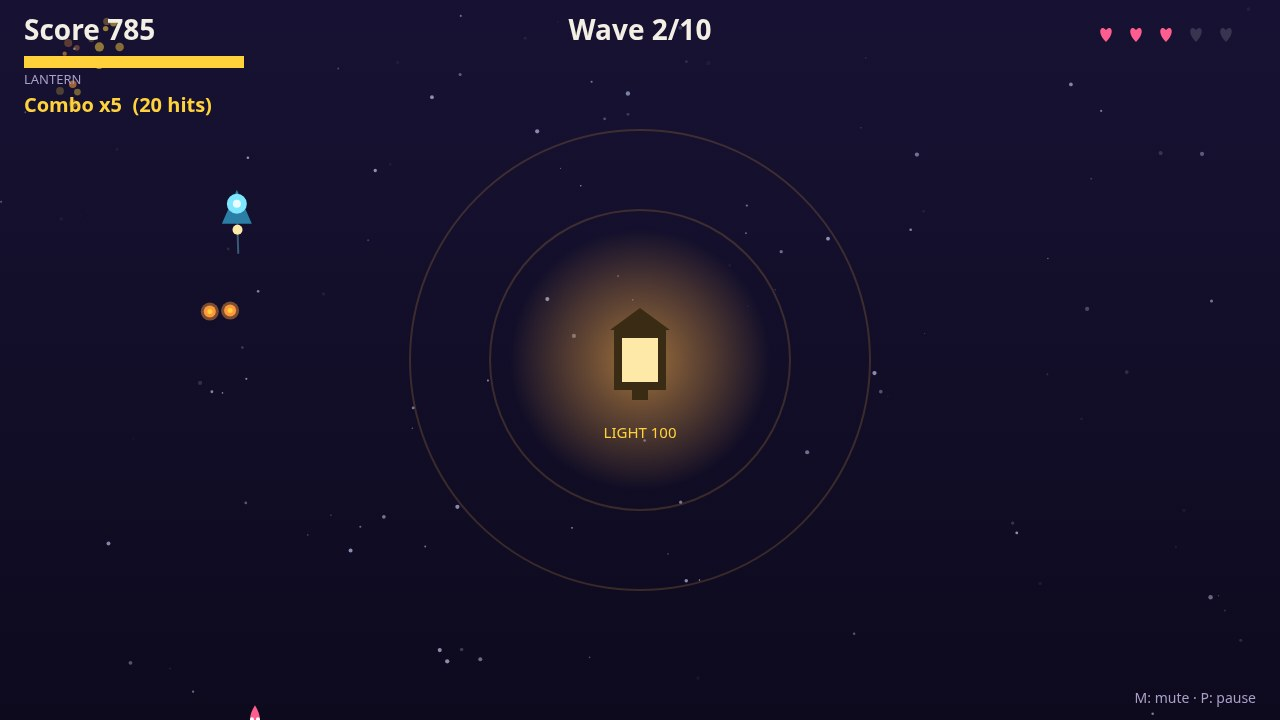
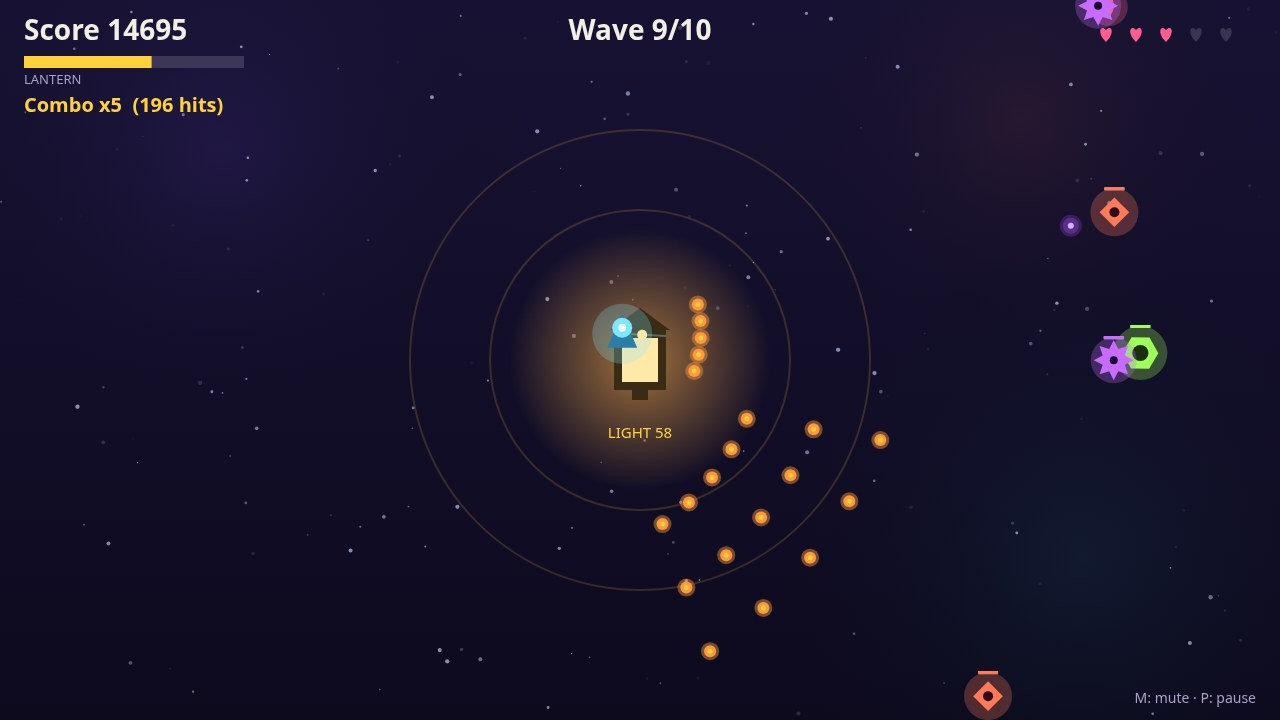
Emberfall: busier waves, fairer fight, screenshots that show it
- Denser, earlier-variety waves (7+3n, faster spawns, splitters/spitters
  from waves 3/2) and a stronger keeper (faster fire/move, 4 hearts,
  lighter lantern damage) so the field stays full but the game stays
  winnable: autopilot wins 3/5 seeds, all close.
- Richer look: nebulae, 170 stars, glow halos on shades and keeper,
  bigger lantern glow; end screens no longer show frozen embers/orbs.
- Play screenshot now stages the liveliest real frame of up to 120s of
  play (wave 9, score 14695) instead of a fixed quiet second; all four
  screenshots re-taken from the game's own code, 1280x720, under 256 KiB.
- Dossier builds byte-identical across two runs.

diff --git a/game/src/render.js b/game/src/render.js
@@ -25,7 +25,7 @@ function starfield(random, count) {
 export function createRenderer(canvas, random) {
   const context = canvas.getContext('2d');
   const view = { scale: 1, x: 0, y: 0 };
-  const stars = starfield(random, 110);
+  const stars = starfield(random, 170);
   const fonts = new Map();
   let time = 0;
 
@@ -80,6 +80,22 @@ export function createRenderer(canvas, random) {
     grad.addColorStop(1, PALETTE.skyBottom);
     context.fillStyle = grad;
     context.fillRect(0, 0, FIELD.width, FIELD.height);
+    // Nebulae: a few huge, faint colour clouds so the dark never reads as
+    // an empty void, even where no shade is standing.
+    const nebulae = [
+      { x: 220, y: 150, r: 320, color: 'rgba(88,60,180,0.16)' },
+      { x: 1080, y: 560, r: 340, color: 'rgba(28,120,130,0.13)' },
+      { x: 1020, y: 120, r: 260, color: 'rgba(180,90,60,0.10)' },
+    ];
+    for (const n of nebulae) {
+      const g = context.createRadialGradient(n.x, n.y, 0, n.x, n.y, n.r);
+      g.addColorStop(0, n.color);
+      g.addColorStop(1, 'rgba(0,0,0,0)');
+      context.fillStyle = g;
+      context.beginPath();
+      context.arc(n.x, n.y, n.r, 0, Math.PI * 2);
+      context.fill();
+    }
     for (const s of stars) {
       const alpha = 0.35 + 0.3 * Math.sin(time * 1.5 + s.tw);
       context.globalAlpha = alpha;
@@ -99,7 +115,7 @@ export function createRenderer(canvas, random) {
 
   function drawLantern(state) {
     const pulse = 1 + 0.06 * Math.sin(time * 2);
-    const glowR = 130 * pulse * (0.5 + state.lantern / 200);
+    const glowR = 165 * pulse * (0.5 + state.lantern / 200);
     const glow = context.createRadialGradient(LANTERN.x, LANTERN.y, 10, LANTERN.x, LANTERN.y, glowR);
     glow.addColorStop(0, 'rgba(255,179,71,0.55)');
     glow.addColorStop(1, 'rgba(255,179,71,0)');
@@ -127,6 +143,10 @@ export function createRenderer(canvas, random) {
   function drawPlayer(state) {
     const p = state.player;
     if (p.invulnerable > 0 && Math.floor(p.invulnerable * 10) % 2 === 0) return;
+    // The keeper's own halo, so the player never gets lost in the dark.
+    context.globalAlpha = 0.25;
+    circle(p.x, p.y, 30, PALETTE.player);
+    context.globalAlpha = 1;
     // Aim line, faint.
     context.strokeStyle = 'rgba(126,231,255,0.35)';
     context.lineWidth = 2;
@@ -154,6 +174,11 @@ export function createRenderer(canvas, random) {
       circle(e.x, e.y, e.radius + 3, '#ffffff');
       return;
     }
+    // Halo: every shade carries its own glow, so it reads at a glance even
+    // shrunk to a contact-sheet cell.
+    context.globalAlpha = 0.28;
+    circle(e.x, e.y, e.radius + 9, color);
+    context.globalAlpha = 1;
     if (e.kind === 'mote') {
       // Spiky shade: a circle with eight spikes.
       context.fillStyle = color;
@@ -224,20 +249,26 @@ export function createRenderer(canvas, random) {
     }
   }
 
-  function drawField(state) {
+  function drawField(state, screen) {
     drawBackground(state);
     drawLantern(state);
-    for (const o of state.orbs) {
-      if (!o.active) continue;
-      circle(o.x, o.y, o.radius + 3, 'rgba(91,45,142,0.5)');
-      circle(o.x, o.y, o.radius, PALETTE.orb);
-      circle(o.x, o.y, 3, '#d9b3ff');
-    }
-    for (const b of state.bullets) {
-      if (!b.active) continue;
-      circle(b.x, b.y, b.radius + 3, 'rgba(255,154,60,0.45)');
-      circle(b.x, b.y, b.radius, PALETTE.ember);
-      circle(b.x, b.y, 2.5, PALETTE.emberCore);
+    // On an end screen the field is over: embers and orbs left frozen
+    // mid-flight would read as a glitch behind the panel, so they are not
+    // drawn there. Everything else (shades, lantern, keeper) stays.
+    const ended = screen === SCREEN_WIN || screen === SCREEN_OVER;
+    if (!ended) {
+      for (const o of state.orbs) {
+        if (!o.active) continue;
+        circle(o.x, o.y, o.radius + 3, 'rgba(91,45,142,0.5)');
+        circle(o.x, o.y, o.radius, PALETTE.orb);
+        circle(o.x, o.y, 3, '#d9b3ff');
+      }
+      for (const b of state.bullets) {
+        if (!b.active) continue;
+        circle(b.x, b.y, b.radius + 3, 'rgba(255,154,60,0.45)');
+        circle(b.x, b.y, b.radius, PALETTE.ember);
+        circle(b.x, b.y, 2.5, PALETTE.emberCore);
+      }
     }
     for (const e of state.enemies) if (e.active) drawEnemy(e);
     drawPlayer(state);
@@ -327,7 +358,7 @@ export function createRenderer(canvas, random) {
     context.fillStyle = PALETTE.backdrop;
     context.fillRect(0, 0, canvas.width, canvas.height);
     context.setTransform(view.scale, 0, 0, view.scale, view.x, view.y);
-    drawField(state);
+    drawField(state, screen);
     if (screen === SCREEN_TITLE) {
       drawPanel('EMBERFALL', [
         'The last lantern is fading. Shades crawl out of the dark',

diff --git a/game/src/shots.js b/game/src/shots.js
@@ -10,8 +10,40 @@ import { FIELD, LANTERN, PLAYER, STEP } from './config.js';
 import { SCREEN_OVER, SCREEN_PLAY, SCREEN_TITLE, SCREEN_UPGRADE, SCREEN_WIN } from './render.js';
 
 const START_SECONDS = 6;
-const PLAY_SECONDS = 20;
+const PLAY_SECONDS = 120;
 const STEP_CAP = 60 * 60 * 9; // nine minutes of simulated play, at most
+
+/** How lively a frame is: shades alive count most, then embers and orbs,
+ *  then the wave, so the shot favours a late, crowded fight. */
+function frameScore(state) {
+  let score = state.wave;
+  let bullets = 0;
+  for (const e of state.enemies) if (e.active) score += 4;
+  for (const b of state.bullets) if (b.active) bullets += 1;
+  for (const o of state.orbs) if (o.active) score += 2;
+  // Embers in flight help, but a spray of them must never outrank a field
+  // full of shades: their share is capped.
+  score += Math.min(bullets, 8);
+  return score;
+}
+
+/** Put a remembered frame back into the world, in place, so the renderer
+ *  paints exactly the frame the simulation reached. The state holds plain
+ *  data only (the upgrade list is empty outside a choice), so a structured
+ *  clone round-trips it. */
+function restoreFrame(state, frame) {
+  for (const key of Object.keys(frame)) {
+    const value = frame[key];
+    if (Array.isArray(value)) {
+      state[key].length = 0;
+      for (const item of value) state[key].push(item);
+    } else if (value !== null && typeof value === 'object') {
+      Object.assign(state[key], value);
+    } else {
+      state[key] = value;
+    }
+  }
+}
 
 /** The shade closest to the lantern: the one that must die first. */
 function nearestToLantern(state) {
@@ -109,7 +141,25 @@ export function stageShot(name, world) {
     return { screen: SCREEN_TITLE, best: 0 };
   }
   if (name === 'play') {
-    playSteps(world, PLAY_SECONDS / STEP);
+    // Play up to a minute of the real game, remember the liveliest frame,
+    // and paint that one: a fixed second used to land on an empty field
+    // between waves, and the judge reads this shot at a glance.
+    let bestFrame = null;
+    let bestScore = -1;
+    for (let i = 0; i < PLAY_SECONDS / STEP; i += 1) {
+      const state = world.state;
+      if (state.over || state.won) break;
+      if (state.awaitingChoice) autopilotUpgrade(world);
+      world.step(STEP, autopilotSteer(state), true, autopilotAim(state));
+      const after = world.state;
+      if (after.over || after.won || after.awaitingChoice) continue;
+      const score = frameScore(after);
+      if (score > bestScore) {
+        bestScore = score;
+        bestFrame = structuredClone(after);
+      }
+    }
+    if (bestFrame !== null) restoreFrame(world.state, bestFrame);
     return { screen: world.state.over ? SCREEN_OVER : SCREEN_PLAY, best: world.state.score };
   }
   if (name === 'upgrade') {

diff --git a/game/src/config.js b/game/src/config.js
@@ -12,11 +12,11 @@ export const LANTERN = { x: 640, y: 360, radius: 46, maxLight: 100 };
 
 export const PLAYER = {
   radius: 16,
-  speed: 330,
+  speed: 360,
   maxHearts: 5,
-  startHearts: 3,
+  startHearts: 4,
   invulnerable: 1.2,
-  fireInterval: 0.22,
+  fireInterval: 0.16,
   bulletSpeed: 740,
   bulletDamage: 1,
   bulletRadius: 6,
@@ -27,25 +27,27 @@ export const WAVES = { total: 10, betweenSeconds: 0 };
 /** Enemy kinds. Wisps hunt the lantern; motes and splitters hunt the keeper;
  *  spitters keep their distance and shoot dark orbs; the Herald is wave 10. */
 export const ENEMY = {
-  mote:     { hp: 2,  speed: 78,  radius: 14, score: 10,  lanternDamage: 6,  touch: 1 },
-  wisp:     { hp: 1,  speed: 122, radius: 10, score: 15,  lanternDamage: 5,  touch: 1 },
-  splitter: { hp: 4,  speed: 62,  radius: 18, score: 20,  lanternDamage: 8, touch: 1 },
+  mote:     { hp: 2,  speed: 86,  radius: 14, score: 10,  lanternDamage: 5,  touch: 1 },
+  wisp:     { hp: 1,  speed: 130, radius: 10, score: 15,  lanternDamage: 4,  touch: 1 },
+  splitter: { hp: 4,  speed: 62,  radius: 18, score: 20,  lanternDamage: 6, touch: 1 },
   spitter:  { hp: 3,  speed: 56,  radius: 15, score: 25,  lanternDamage: 0,  touch: 1 },
   herald:   { hp: 70, speed: 46,  radius: 42, score: 500, lanternDamage: 25, touch: 1 },
 };
 
 export const ORB = { speed: 210, radius: 8, lanternDamage: 6 };
 
-/** How a wave is built: count grows with the wave, the mix opens up. */
+/** How a wave is built: count grows with the wave, the mix opens up.
+ *  Waves are dense on purpose: the field should always feel full of
+ *  shades closing in, never an empty dark room. */
 export function waveComposition(wave) {
-  const count = 6 + wave * 3;
+  const count = 7 + wave * 3;
   const list = [];
   for (let i = 0; i < count; i += 1) {
     let kind = 'mote';
     const roll = (i * 37 + wave * 11) % 100;
     if (wave >= 10 && i === 0) kind = 'herald';
-    else if (wave >= 4 && roll < 18) kind = 'splitter';
-    else if (wave >= 3 && roll < 38) kind = 'spitter';
+    else if (wave >= 3 && roll < 18) kind = 'splitter';
+    else if (wave >= 2 && roll < 38) kind = 'spitter';
     else if (wave >= 2 && roll < 62) kind = 'wisp';
     list.push(kind);
   }
@@ -54,7 +56,7 @@ export function waveComposition(wave) {
 
 /** Seconds between spawns inside a wave; waves get denser. */
 export function spawnInterval(wave) {
-  return Math.max(0.35, 1.05 - wave * 0.07);
+  return Math.max(0.3, 0.9 - wave * 0.06);
 }
 
 /** The seven upgrades offered between waves (three are drawn each time). */
